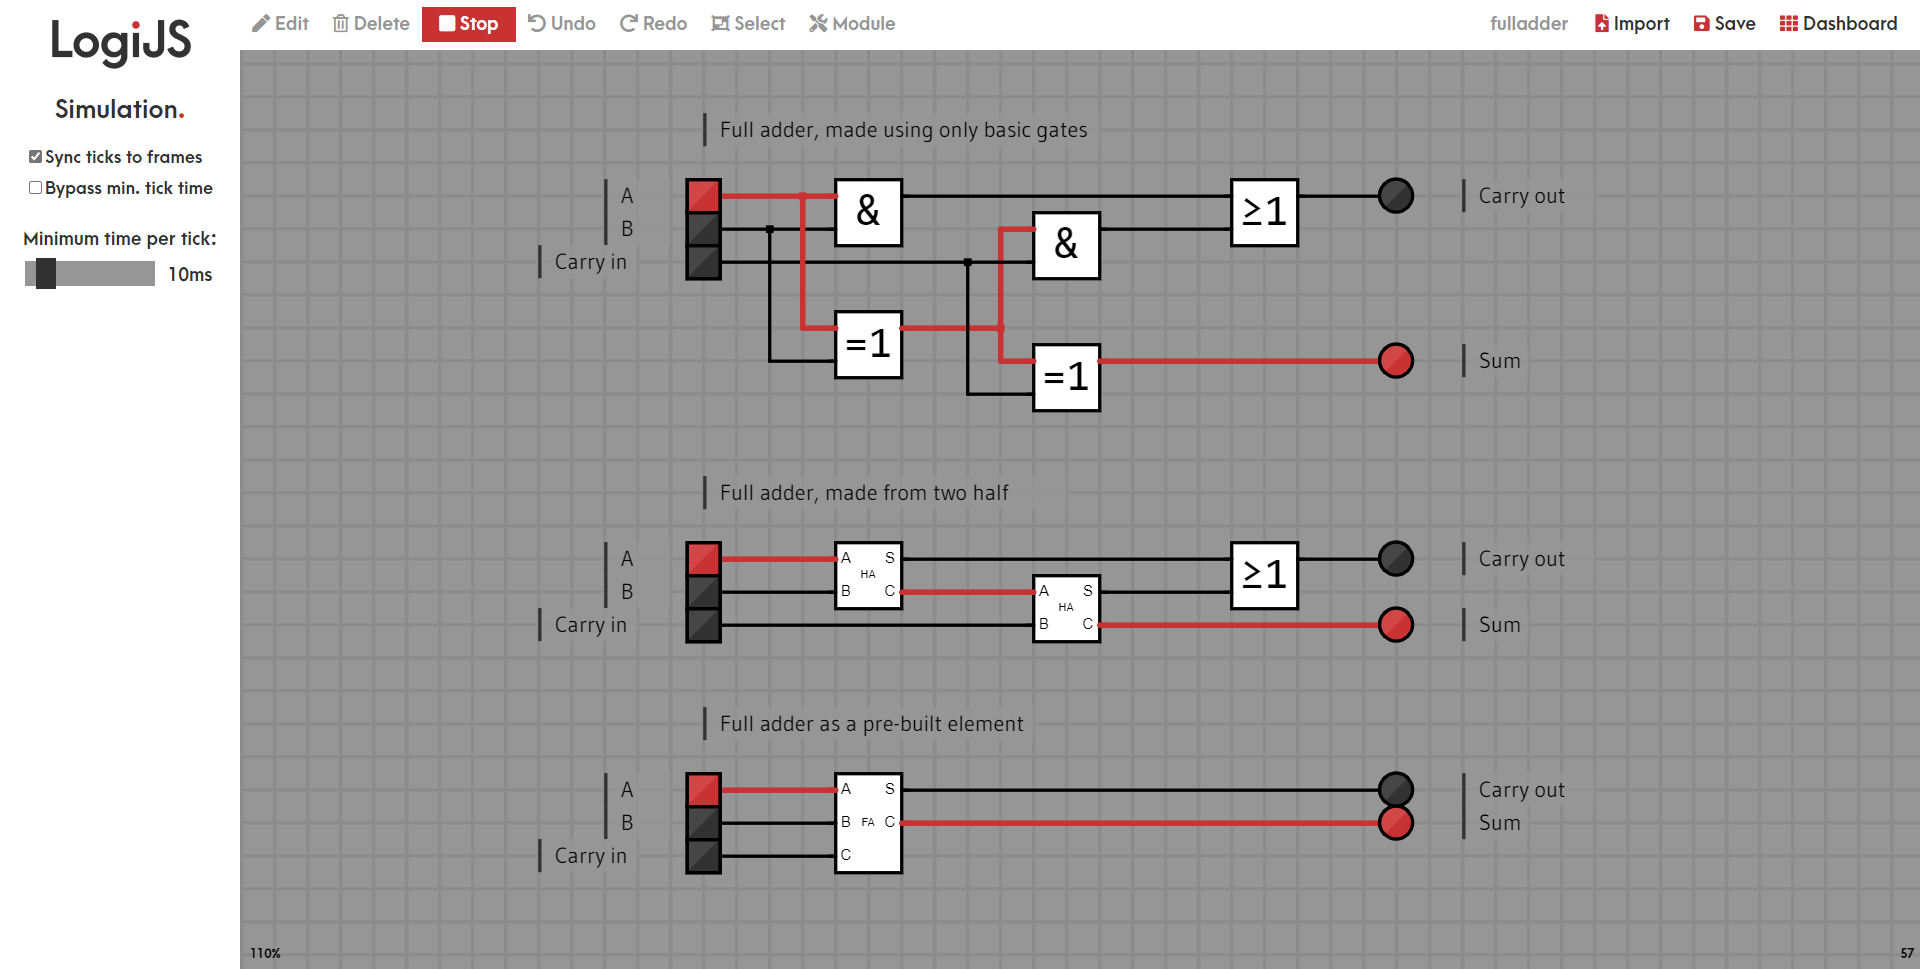
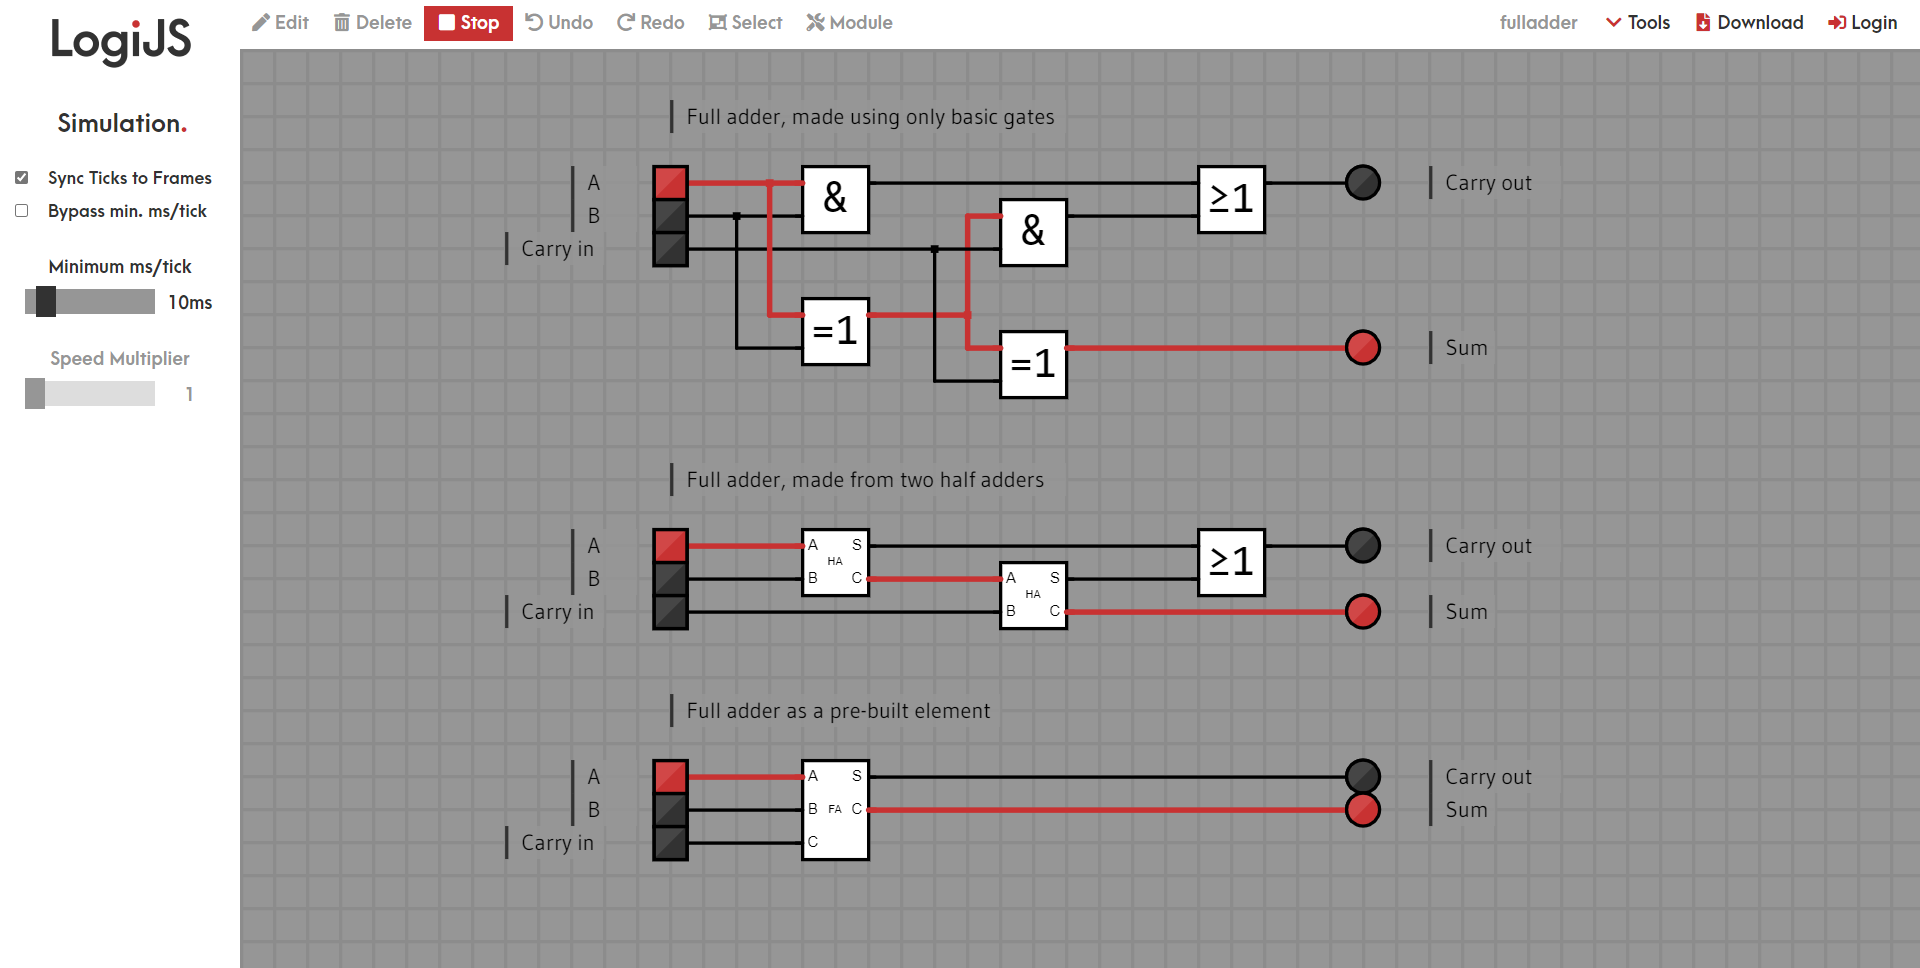
Added screenshot feature

diff --git a/javascripts/DOMdefinitions.js b/javascripts/DOMdefinitions.js
@@ -61,6 +61,8 @@ function linkElementsFromDOM() {
     customButton.disabled = (getCookieValue('access_token') === '');
 
     importButton = document.getElementById('import-button');
+    screenshotButton = document.getElementById('screenshot-button');
+
     saveDownloadButton = document.getElementById('save-download-button');
     if (getCookieValue('access_token') !== '') {
         saveDownloadButton.innerHTML = '<i class="fas fa-save icon"></i> Save';
@@ -143,8 +145,9 @@ function addElementHelpTexts() {
 
     addHelpText(topSketchInput, 'This is the File Name of the Sketch');
     addHelpText(importButton, 'Import a JSON File (Clears the current Sketch!)');
+    addHelpText(screenshotButton, 'Take a Screenshot of the Sketch');
     if (getCookieValue('access_token') !== '') {
-        addHelpText(saveDownloadButton, 'Save this Sketch');
+        addHelpText(saveDownloadButton, 'Save this Sketch to your Dashboard');
         addHelpText(dashboardButton, 'Get back to the Dashboard');
     } else {
         addHelpText(saveDownloadButton, 'Download as JSON');
@@ -556,7 +559,20 @@ function bypassTickTimeChanged() {
     }
 }
 
+function screenshotClicked() {
+    dropdownClicked = true;
+    reDraw();
+    loadImage('images/alt_logo.png', logoImage => {
+        image(logoImage, window.width - 200, window.height - 100);
+        let img = canvas.toDataURL("image/png");
+        window.open().document.write('<!DOCTYPE html><html><head><title>LogiJS: Screenshot</title></head><body style="margin: 0; background: #323232;"><img style="display: block; position: absolute; top: 25px; left: 120px;" src="' + img + '"/></body></html>');
+        dropdownClicked = false;
+        reDraw();
+    });
+}
+
 function importButtonClicked() {
+    dropdownClicked = true;
     document.getElementById('fileid').click();
 }
 

diff --git a/webapp_style.css b/webapp_style.css
@@ -65,6 +65,10 @@ body {
     color: #fff;
   }
 
+  .icon {
+      min-width: 18px;
+  }
+
   .button > .icon, .buttonLeft > .icon {
     color: #c83232;
   }
@@ -712,11 +716,11 @@ input[type=range]::-ms-tooltip {
 
 #select-tools {
     position: absolute;
-    padding: 0 5px;
+    padding: 0;
     left: 50vh;
     top: 50vh;
     background: none;
-    width: 190px;
+    width: 195px;
     height: 50px;
     margin: 0;
     display: none;
@@ -1324,6 +1328,7 @@ h1 {
     background: white;
     overflow: hidden;
     z-index: 100;
+    overflow: visible;
 }
 
 .dark-theme #topButtonsContainer {
@@ -1337,6 +1342,41 @@ h1 {
 #topRightButtons {
     margin-left: auto;
     margin-right: 10px;
+}
+
+/* The container <div> - needed to position the dropdown content */
+.dropdown {
+    position: relative;
+    display: inline-block;
+}
+
+/* Dropdown Content (Hidden by Default) */
+.dropdown-content {
+    display: none;
+    position: absolute;
+    background: #fff;
+    box-shadow: 0px 0px 4px #969696;
+    z-index: 1;
+}
+
+.dark-theme .dropdown-content {
+    background: #323232;
+    box-shadow: 0px 0px 4px #272727;
+}
+
+/* Links inside the dropdown */
+.dropdown-content .button {
+    width: 140px;
+    text-align: left;
+    padding: 5px 20px;
+    margin: 0;
+    text-decoration: none;
+    line-height: 35px;
+}
+
+/* Show the dropdown menu on hover */
+.dropdown:hover .dropdown-content {
+    display: block;
 }
 
 #toolbox{

diff --git a/javascripts/sketch.js b/javascripts/sketch.js
@@ -231,6 +231,7 @@ let moduleNameChanged = false;
 let redrawNextFrame = false;
 
 let clickedOutOfGUI = false;
+let dropdownClicked = false;
 
 /*
     When an element is selected in modifier mode, it's number is saved in the respective variable.
@@ -266,7 +267,7 @@ let moduleNameInput; // Module configurator elements
 let helpLabel; // Help text label
 
 let editButton, deleteButton, simButton, undoButton, redoButton, selectButton, moduleButton; // Tool buttons
-let topSketchInput, importButton, saveDownloadButton, dashboardButton; // Right side elements
+let topSketchInput, importButton, saveDownloadButton, dashboardButton, screenshotButton; // Right side elements
 
 let andButton, orButton, xorButton, bufferButton, notButton, switchButton, buttonButton, clockButton, outputButton, labelButton, displayButton; // Standard element buttons
 let counterButton, decoderButton, dFlipFlopButton, rsFlipFlopButton, jkFlipFlopButton, registerButton, muxButton, demuxButton, halfaddButton, fulladdButton, customButton; // Advanced element buttons
@@ -1829,7 +1830,7 @@ function showElements() {
         elem.show();
     }
 
-    if (controlMode === 'addObject') {
+    if (controlMode === 'addObject' && !dropdownClicked) {
         textFont('Consolas');
         showElementPreview();
     }

diff --git a/javascripts/mouse.js b/javascripts/mouse.js
@@ -434,6 +434,7 @@ function mouseReleased() {
         }
     }
 
+    dropdownClicked = false;
     if (loading || showCustomDialog || saveDialog || moduleOptions || mouseOverGUI()) { return; }
     if (elementMenuShown()) {
         if (!mouseOverGUI() && clickedOutOfGUI) {
@@ -734,10 +735,10 @@ function mouseOverImport(baseX, baseY, rows, cols) {
 
 //Checks if the mouse hovers over the GUI(true) or the grid(false)
 function mouseOverGUI() {
-    /*if (mouseY > window.height - 220 && mouseX < 970 && showHints) {
-        return true;
-    }*/
     if (moduleOptions && mouseX >= window.width - 360) {
+        return true;
+    }
+    if (dropdownClicked) {
         return true;
     }
     if (controlMode === 'modify' && inputToModify + outputToModify + labelToModify >= -2) {
